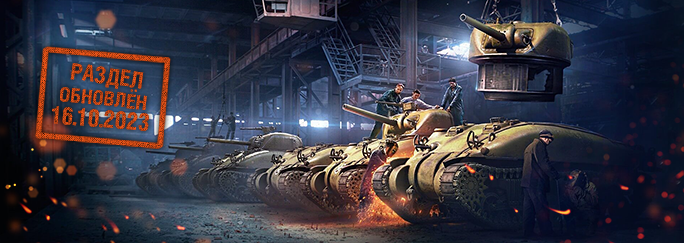
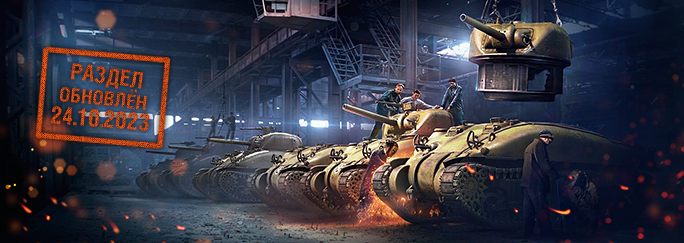
Обновление раздела "В разработке"

diff --git a/_dev-posts/hangars.md b/_dev-posts/hangars.md
@@ -1,12 +1,24 @@
 ---
 title: Ангары
-status: "Обновлено: 30 сентября 2023 года"
+status: "Обновлено: 24 октября 2023 года"
 image: /assets/img/indev/thumb/hangars.png
 ---
 
 <p style="display: none">Подробности о жизни ангаров мы рассказываем именно здесь.</p>
 
 ![Placeholder]({{ '/assets/img/indev/head/hangars.png' | relative_url }})
+
+{% include indev/status.html status="done" text="Доработки премиум ангара v2" date="24 октября" %}
+
+Работа над ангарами ведется каждый день, и мы готовы показать Вам некоторые из изменений во всеми полюбившемся премиум ангаре v2!
+
+- Немного изменена работа камеры;
+- Добавлены и отстроены все 3D звуки;
+- Изменены и добавлены новые источники освещения;
+- Добавлены новые объекты.
+
+[![ангар1]({{ '/assets/img/indev/screens/hpv2_1.png' | relative_url}}){: width="100%" }](/assets/img/indev/screens/hpv2_1.png)
+[![ангар2]({{ '/assets/img/indev/screens/hpv2_2.png' | relative_url}}){: width="100%" }](/assets/img/indev/screens/hpv2_2.png)
 
 {% include indev/status.html status="done" text="Воскрешение ангаров" date="30 сентября" %}
 
